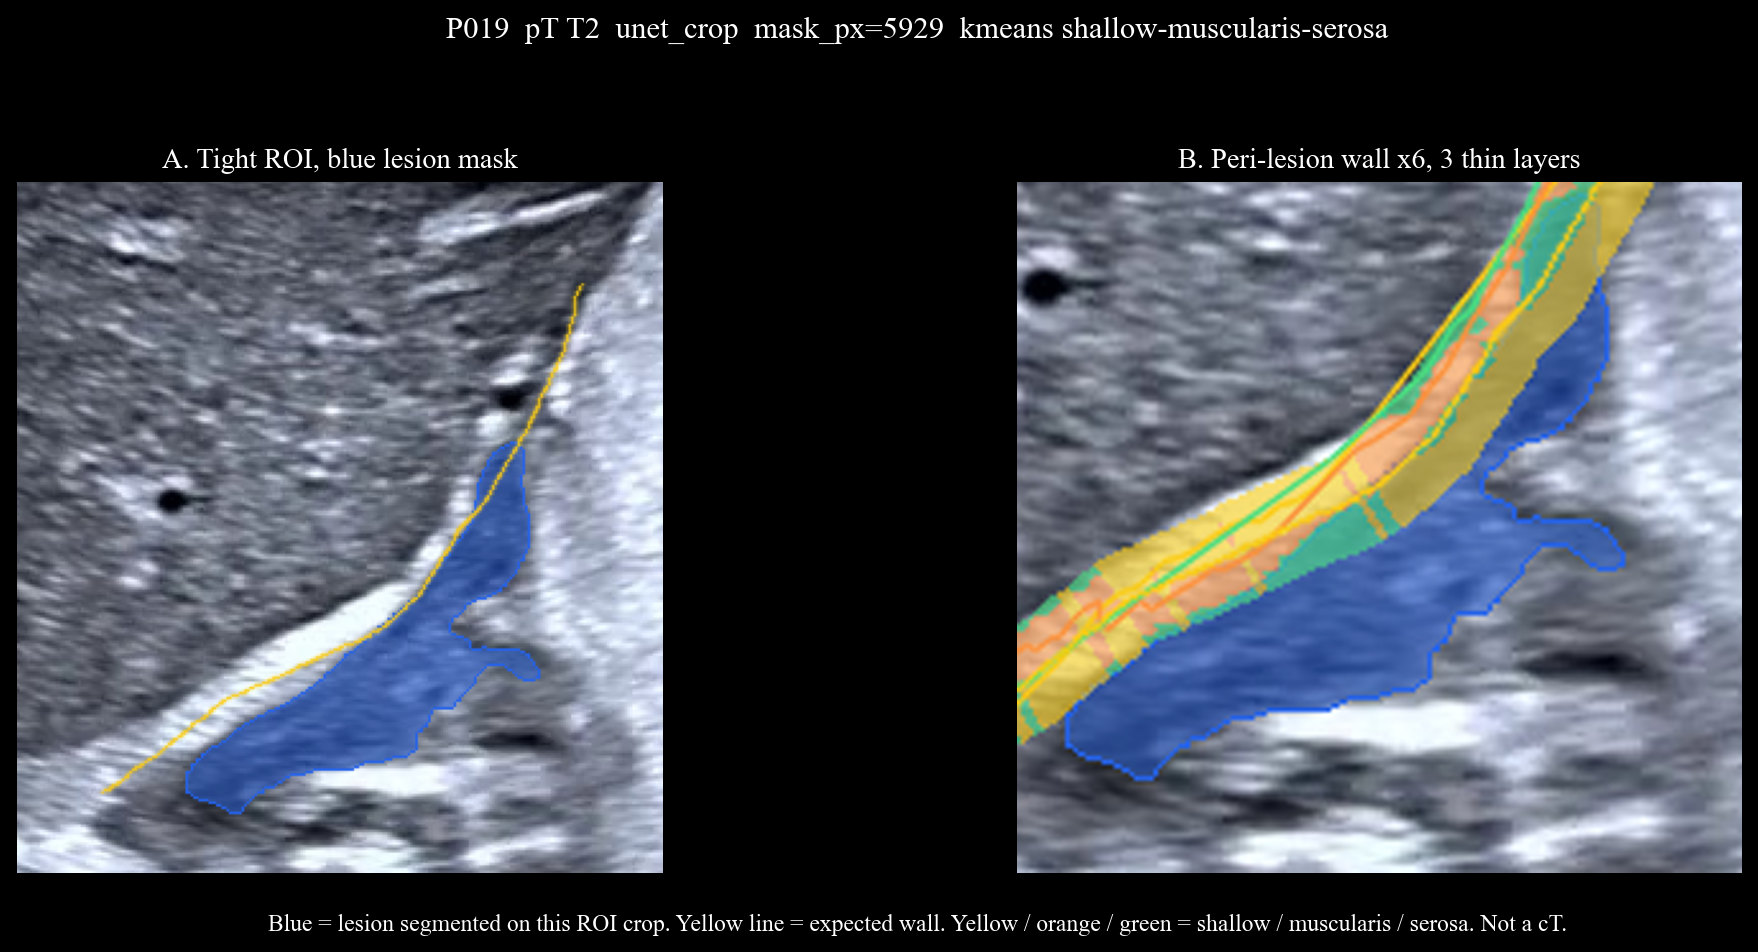
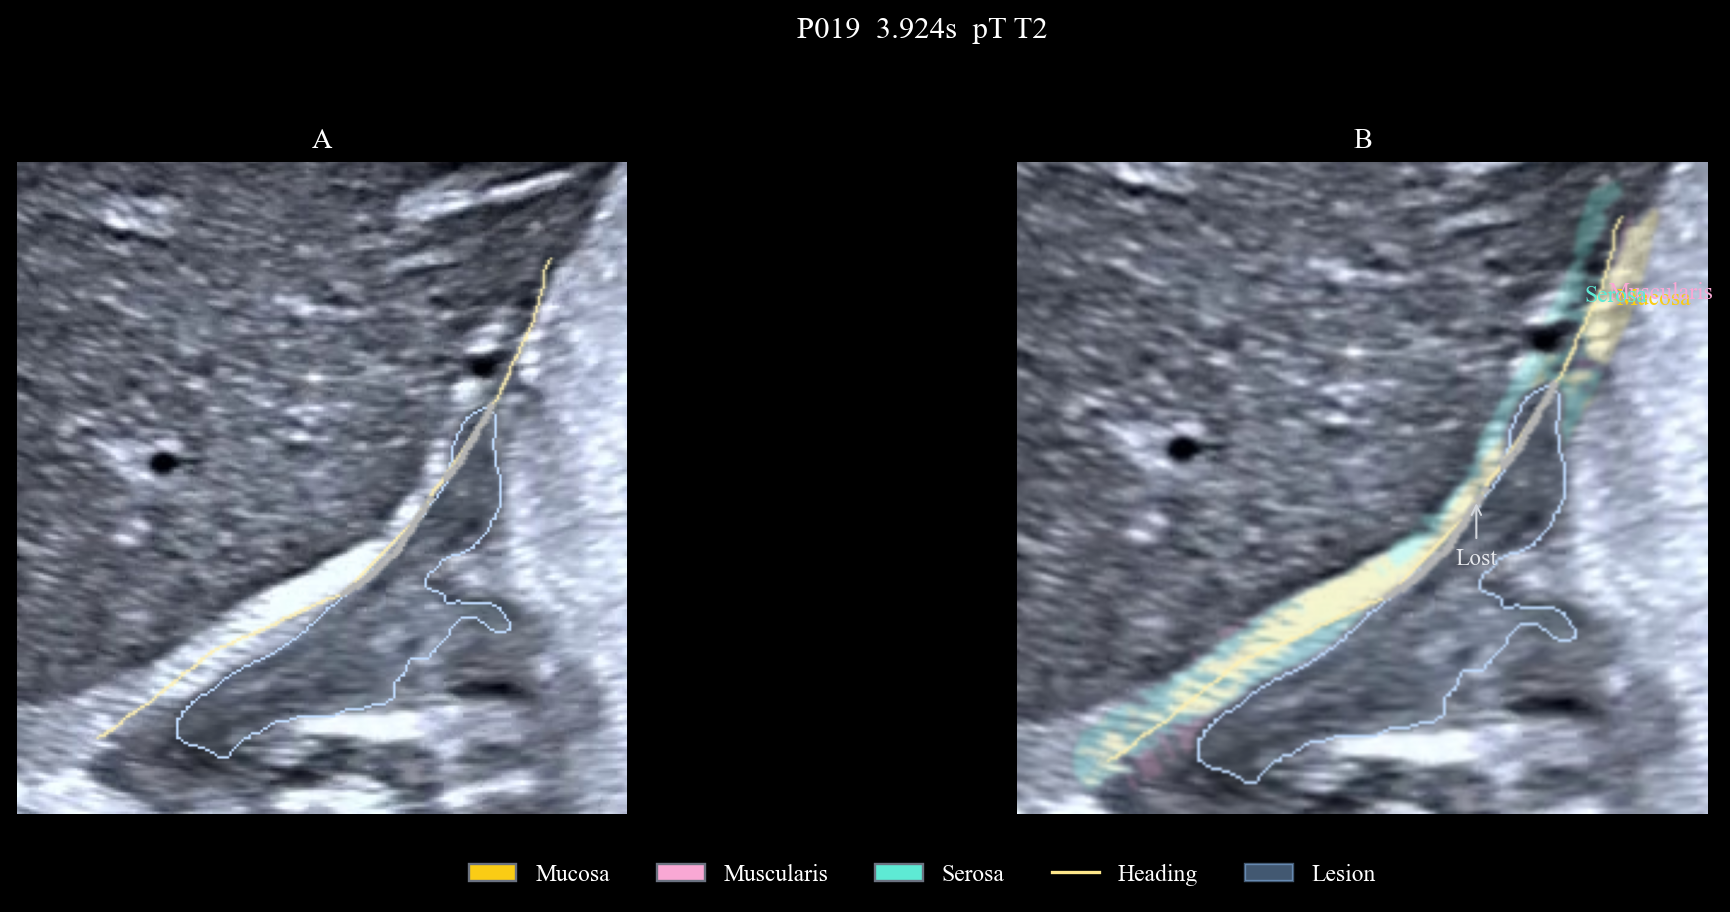
Render P008, P019, and P076 with the same English thin-band layout as P040.

diff --git a/scripts/render_wall_layer_thin_bands.py b/scripts/render_wall_layer_thin_bands.py
@@ -541,7 +541,7 @@ def render_index(out_dir: Path, panels: list[Path]) -> Path:
         ax.imshow(plt.imread(str(path)))
         ax.set_title(path.name.replace("_thin_bands.png", ""), fontsize=11)
         ax.axis("off")
-    fig.suptitle("ROI lesion mask + magnified peri-lesion wall layers", fontsize=14, y=0.995)
+    fig.suptitle("Wall layers", fontsize=14, fontname="Times New Roman", y=0.995)
     fig.tight_layout()
     dest = out_dir / "index.png"
     fig.savefig(dest, dpi=130, bbox_inches="tight")

diff --git a/docs/PROJECT_CHANGELOG.md b/docs/PROJECT_CHANGELOG.md
@@ -2,6 +2,14 @@
 
 This file records material project changes, their validation, and deployment state. Do not add patient identifiers, credentials, tokens, private URLs, or sensitive clinical data.
 
+## 2026-08-29, Same thin-band panels for P008 P019 P076
+
+- Scope: `scripts/render_wall_layer_thin_bands.py` (all four fixtures). Panels in `results/visualizations/error_cases/CASE-008_thin_bands.png` and siblings.
+- Reason: P040 style is settled. The other three ZML cases need the same English Times figure.
+- Key changes: Render P008 / P019 / P040 / P076 with the same pale wash, walk-until-lesion, and short labels. No public deploy. Does not unlock cT.
+- Validation: Offline four-case render.
+- Deployment: none (offline figure).
+
 ## 2026-08-29, P040 figure text in Times New Roman English
 
 - Scope: `scripts/render_wall_layer_thin_bands.py --case P040`.
